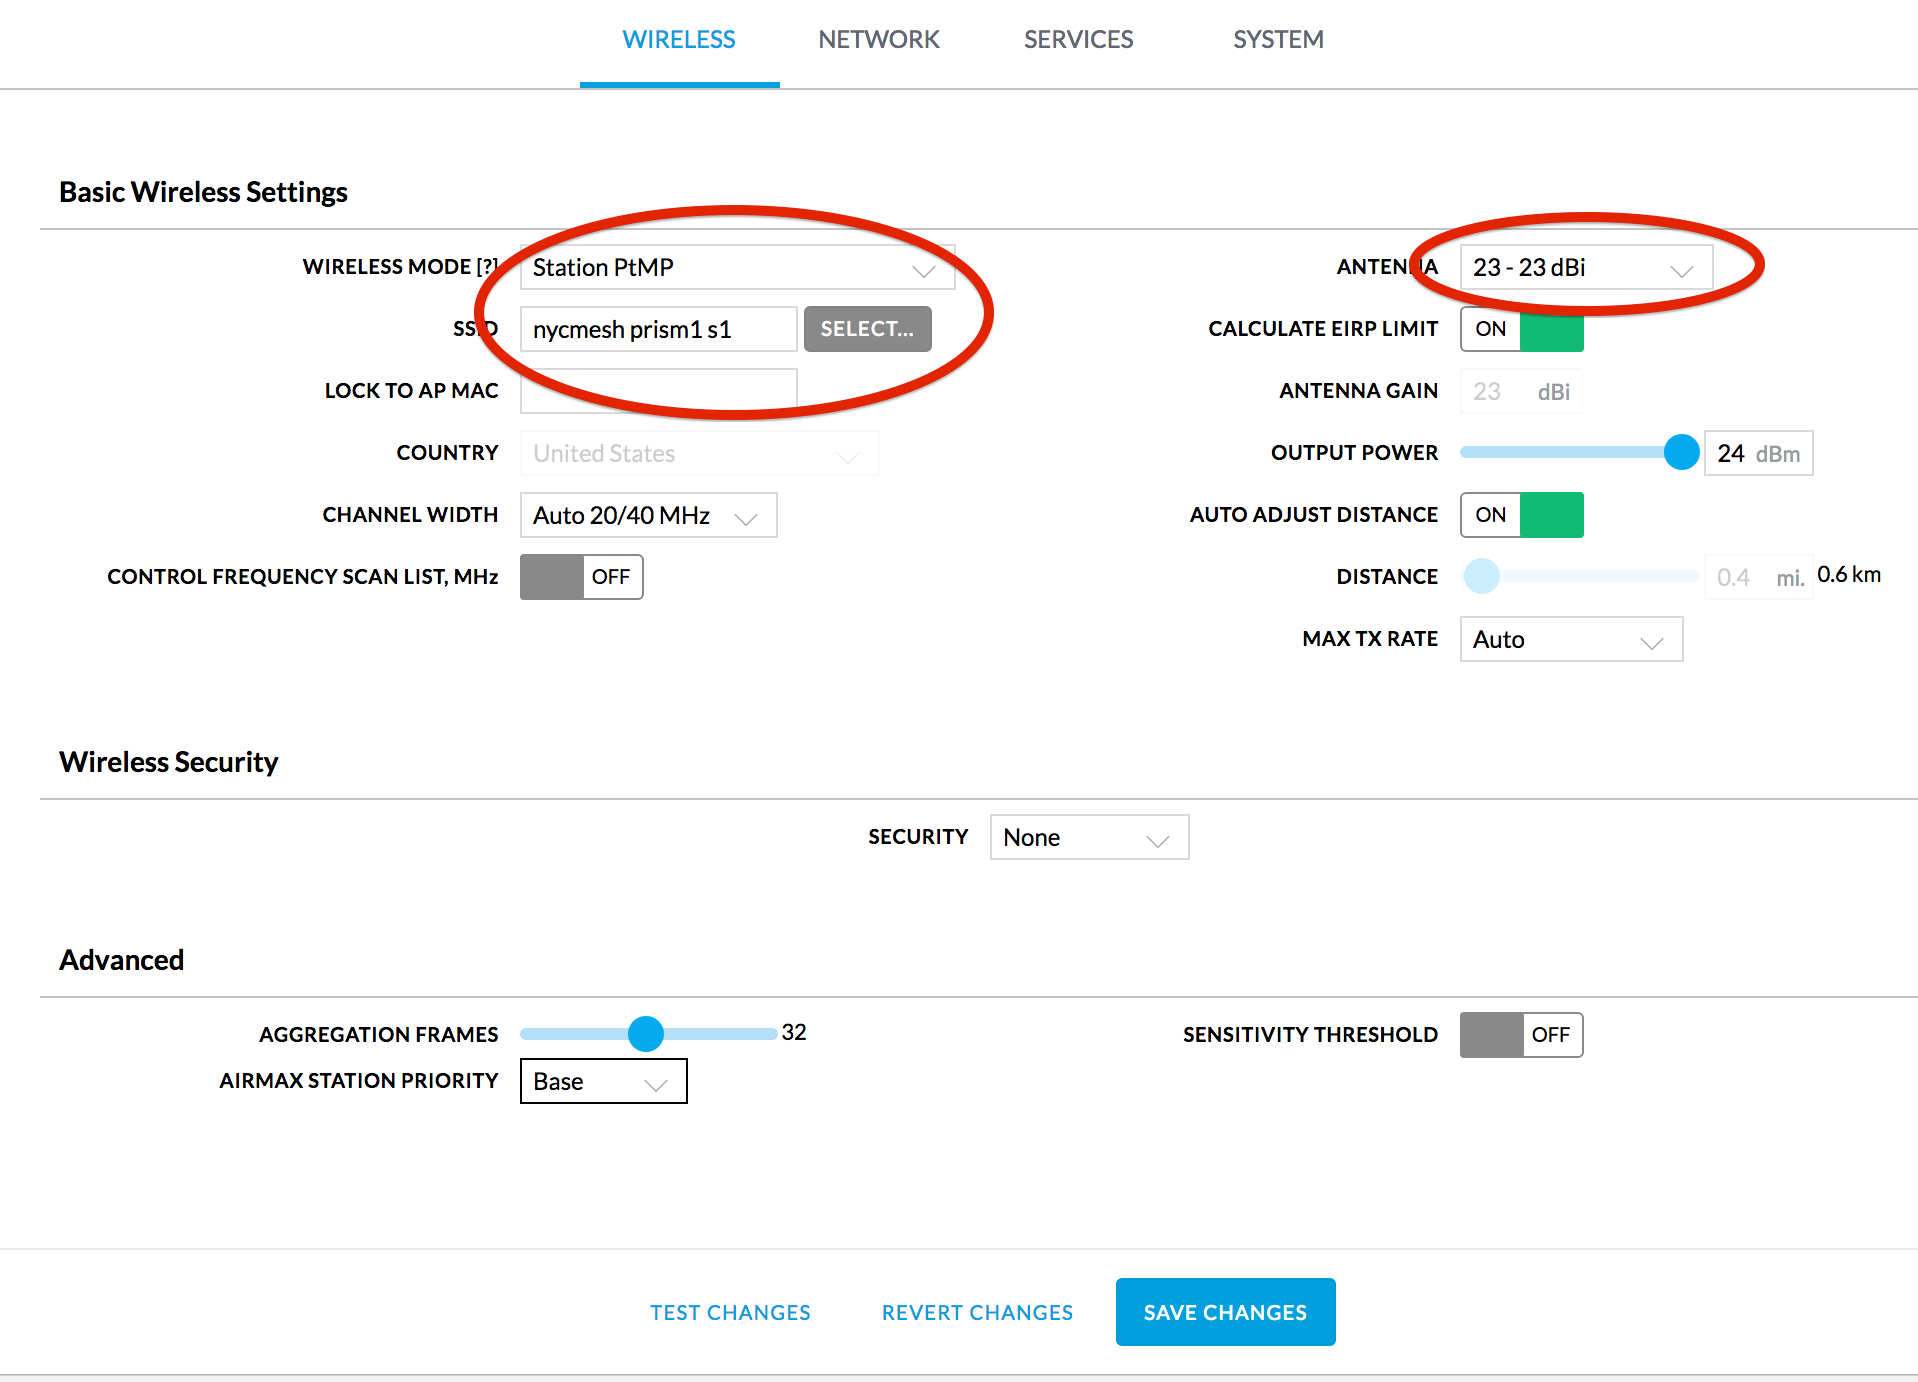
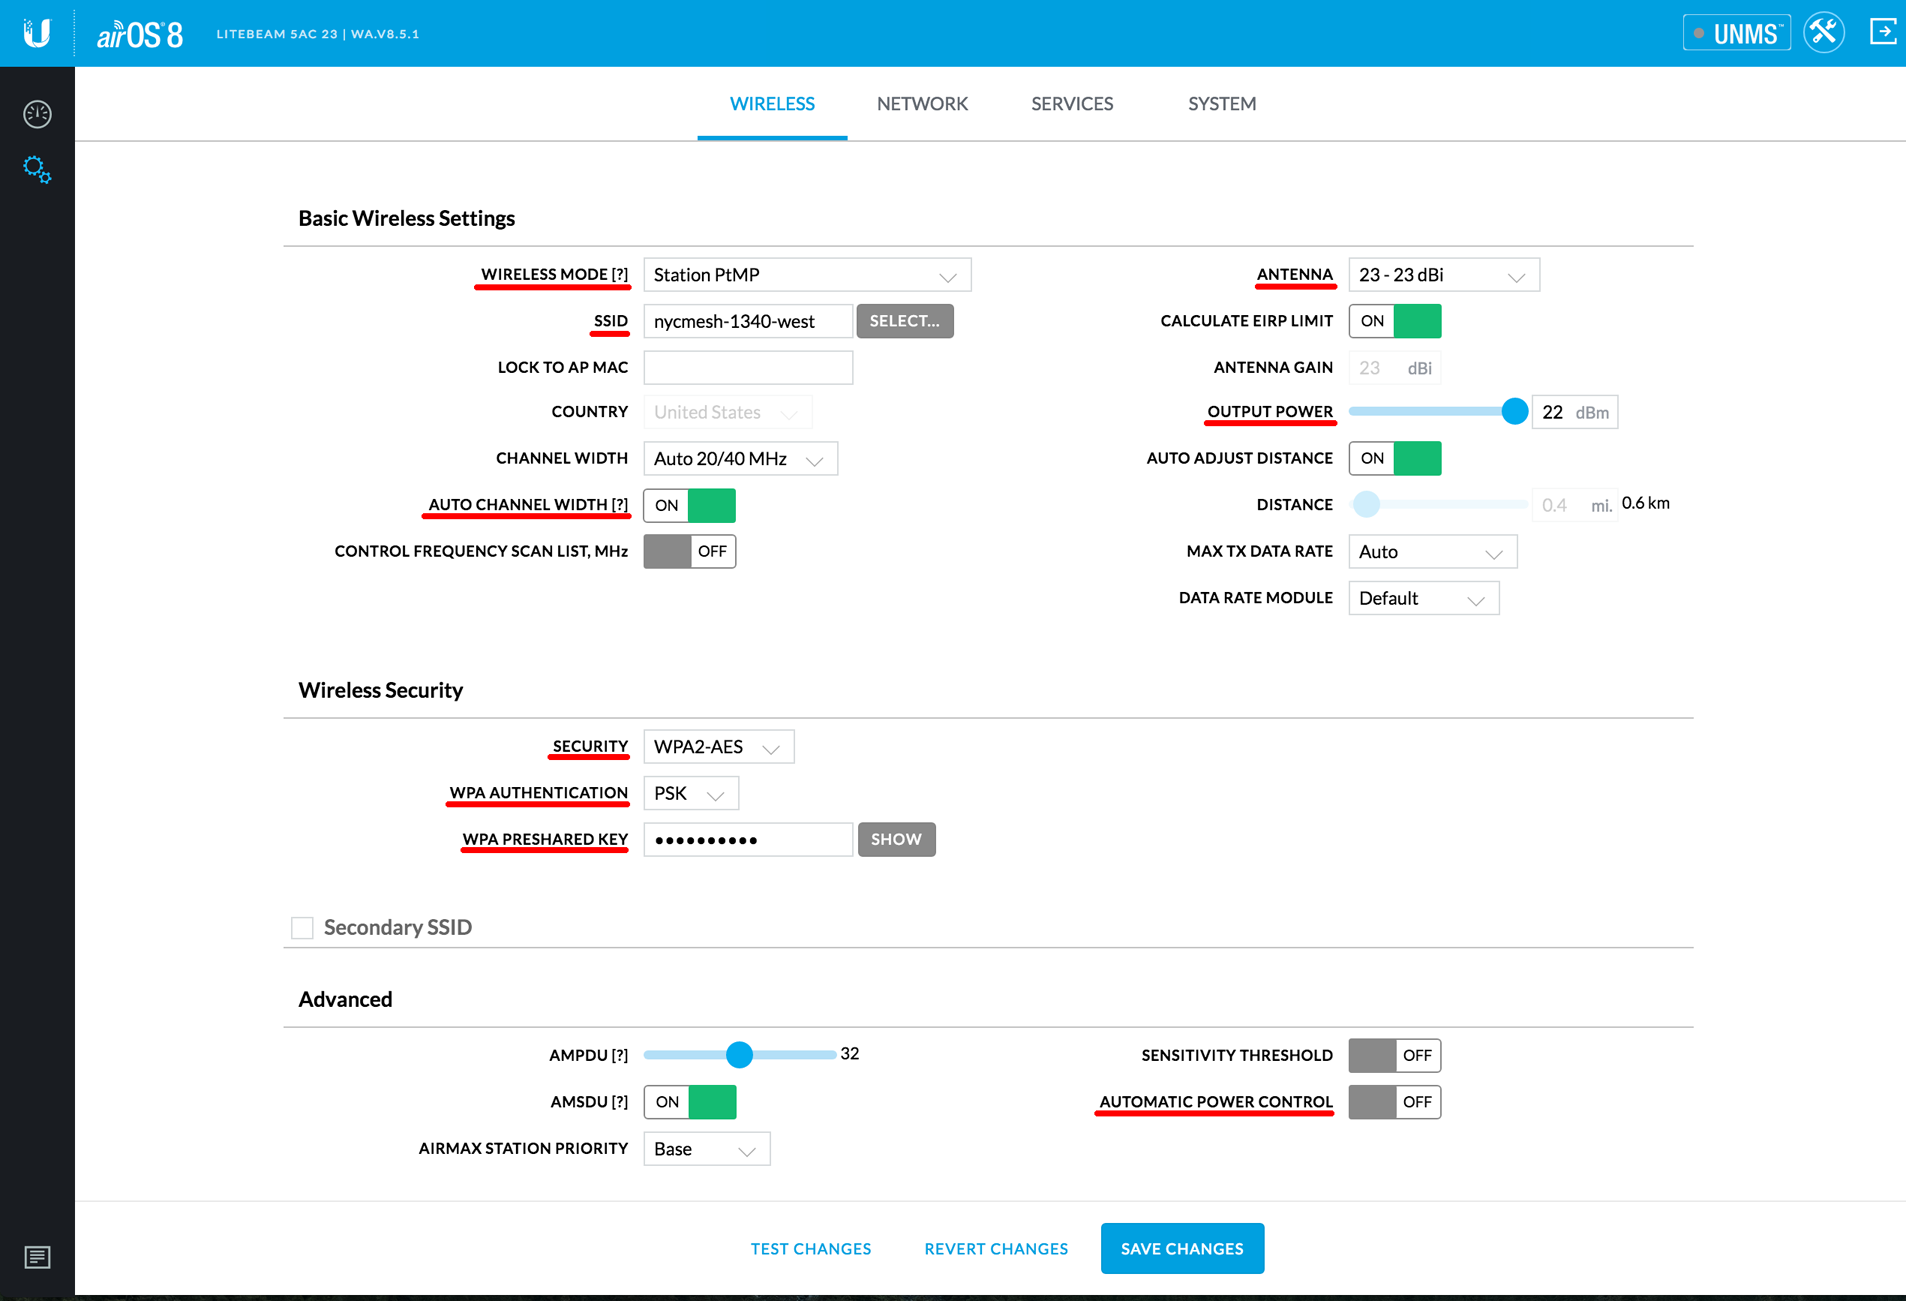
Made Jesse's suggested changes and updated all screenshots

diff --git a/content/installs/cpe2/index.md b/content/installs/cpe2/index.md
@@ -104,20 +104,31 @@ This explains how to configure Ubiquiti sector clients (e.g. LiteBeamAC or NanoB
 *   SSID:
     *   For SN2: nycmesh-english-kills-east OR nycmesh-english-kills-west (see pairing below)
     *   For 1340: nycmesh-1340-north or ...-east or ...-south or ...-west (depending on where you are)
-*   WPA2 PSK: nycmeshnet
-*   Antenna 23 -23dbi
+*   Enable Auto Channel Width
+*   Antenna 23 - 23dbi
+*   Slide Output Power all the way to the right for max dBm
+*   Security: WPA2-AES
+*   WPA Authentication: PSK
+*   WPA Preshared Key: nycmeshnet
+*   Disable Automatic Power Control
 
 [**Network settings**](./litebeam/network.png)  
- (leave as default)
+
+*   Enable IPV6
+*   Set IPV6 Address to SLAAC
+
 [**Services**](./litebeam/services.png)
 
-*   [x]SNMP Agent
-*   community: public location: nycmesh
-*   contact: nycmesh
+*   Enable SNMP Agent
+*   SNMP community: public 
+*   Location: nycmesh
+*   Contact: nycmesh
 
 [**System**](./litebeam/system.png)
 
 *   Device name: nycmesh-lbe-nn (**lbe** is LiteBeam, **nbe** is NanoBeam, **nn** is replaced with the install number)
+
+**IMPORTANT:** Click SAVE CHANGES when you're done! 
 
 ### 4. Pairing
 
